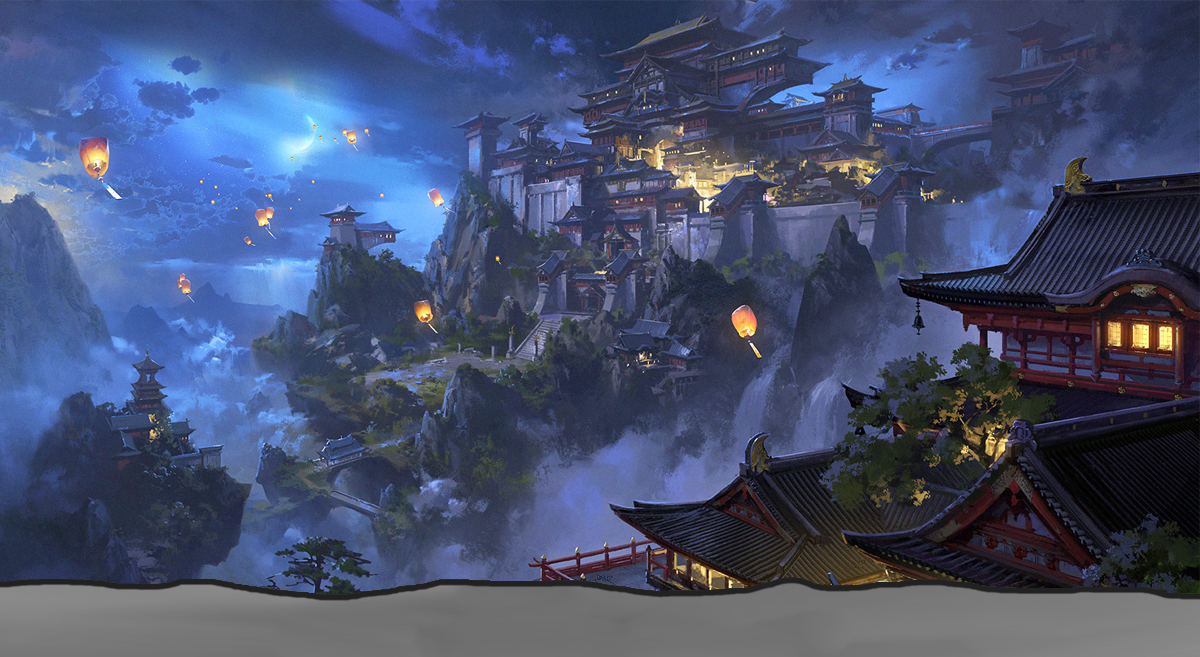
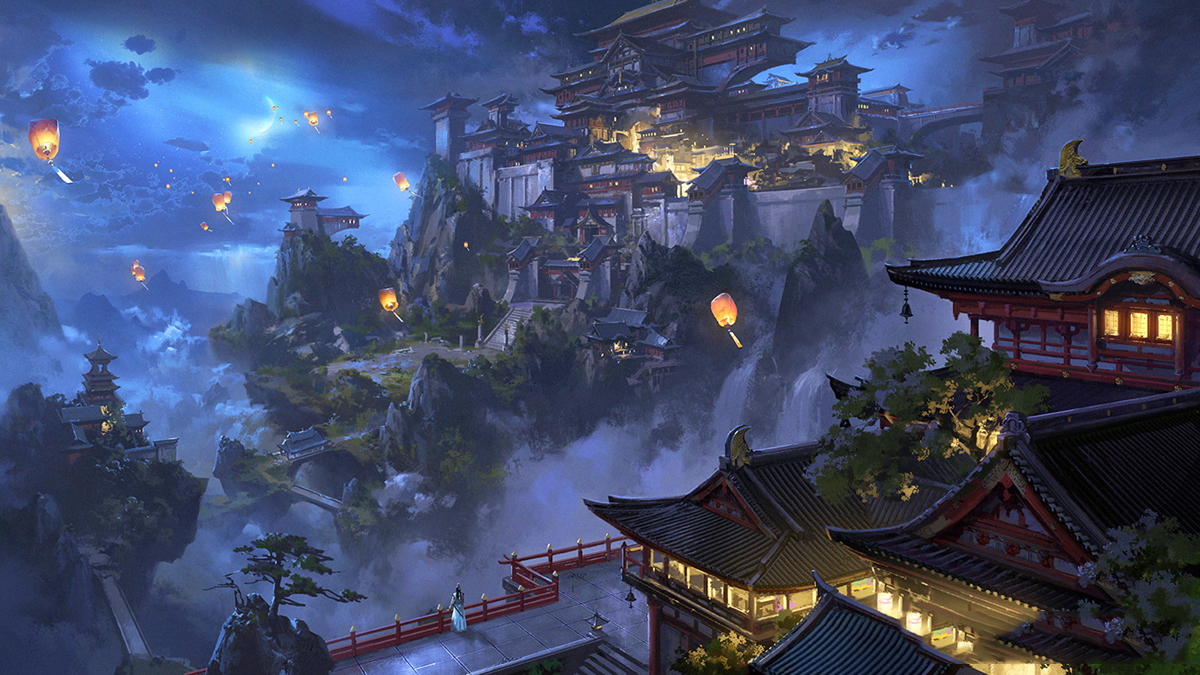
Fix #59: add all map

diff --git a/src/js/vuemove.js b/src/js/vuemove.js
@@ -156,7 +156,7 @@ document.onkeydown = function (event) {
 					if (pl.IsMana) {
 						flash(pl, 'skillQ')
 						CDSkill(pl, 4, pl.needCD)
-						t.UseConsumables(pl, "ATK", pl.LV, true, 10)
+						t.UseConsumables(pl, "ATK", pl.LV * 2, true, 10)
 						GetAudio('pl', 'skill_q', 2)
 						// setTimeout(function () { GetAudio('pl', 'skill_f2') }, 600)
 					}
@@ -671,16 +671,16 @@ function CreatePortal(PortalToMapID) {
 			$("#map").prepend("<div class='Portal Portal-L to-map-3'> </div>");
 			break;
 		case 5:
-			$("#map").prepend("<div class='Portal Portal-L to-map-2'> </div>");
+			$("#map").prepend("<div class='Portal Portal-M to-map-2'> </div>");
 			$("#map").prepend("<div class='Portal Portal-R to-map-6'> </div>");
 			break;
 		case 6:
-			$("#map").prepend("<div class='Portal Portal-L to-map-5'> </div>");
-			$("#map").prepend("<div class='Portal Portal-R to-map-0'> </div>");
+			$("#map").prepend("<div class='Portal Portal-bL to-map-5'> </div>");
+			$("#map").prepend("<div class='Portal Portal-bR to-map-0'> </div>");
 			break;
 		case 7:
-			$("#map").prepend("<div class='Portal Portal-L to-map-0'> </div>");
-			$("#map").prepend("<div class='Portal Portal-R to-map-8'> </div>");
+			$("#map").prepend("<div class='Portal Portal-wudangl to-map-0'> </div>");
+			$("#map").prepend("<div class='Portal Portal-bR to-map-8'> </div>");
 			$("#map").prepend("<div class='Portal Portal-M to-map-10'> </div>");
 			break;
 		case 8:
@@ -688,19 +688,19 @@ function CreatePortal(PortalToMapID) {
 			$("#map").prepend("<div class='Portal Portal-R to-map-9'> </div>");
 			break;
 		case 9:
-			$("#map").prepend("<div class='Portal Portal-L to-map-8'> </div>");
+			$("#map").prepend("<div class='Portal Portal-wudangl to-map-8'> </div>");
 			break;
 		case 10:
 			$("#map").prepend("<div class='Portal Portal-L to-map-0'> </div>");
 			$("#map").prepend("<div class='Portal Portal-R to-map-7'> </div>");
 			break;
 		case 11:
-			$("#map").prepend("<div class='Portal Portal-L to-map-12'> </div>");
-			$("#map").prepend("<div class='Portal Portal-R to-map-0'> </div>");
+			$("#map").prepend("<div class='Portal Portal-bL to-map-12'> </div>");
+			$("#map").prepend("<div class='Portal Portal-bR to-map-0'> </div>");
 			break;
 		case 12:
-			$("#map").prepend("<div class='Portal Portal-L to-map-13'> </div>");
-			$("#map").prepend("<div class='Portal Portal-R to-map-11'> </div>");
+			$("#map").prepend("<div class='Portal Portal-bL to-map-13'> </div>");
+			$("#map").prepend("<div class='Portal Portal-bR to-map-11'> </div>");
 			break;
 		case 13:
 			$("#map").prepend("<div class='Portal Portal-R to-map-12'> </div>");
@@ -713,7 +713,7 @@ function CreatePortal(PortalToMapID) {
 			$("#map").prepend("<div class='Portal Portal-L to-map-14'> </div>");
 			break;
 		case 16:
-			$("#map").prepend("<div class='Portal Portal-M to-map-0'> </div>");
+			$("#map").prepend("<div class='Portal Portal-bR to-map-0'> </div>");
 			break;
 		case 17:
 			$("#map").prepend("<div class='Portal Portal-L to-map-18'> </div>");

diff --git a/src/assets/scss/map.scss b/src/assets/scss/map.scss
@@ -25,27 +25,34 @@
     background: url(../images/map/map-4-murenxiang.png) no-repeat black;
 }
 
-.map-5,
-.map-6 {
-    background: url(../images/map/map-11.png) no-repeat black;
+.map-5 {
+    background: url(../images/map/map-5-songshan.png) no-repeat black;
 }
 
-.map-7,
+.map-6 {
+    background: url(../images/map/map-6-songshan.png) no-repeat black;
+}
+
+.map-7 {
+    background: url(../images/map/map-7-wudang.png) no-repeat black;
+}
+
 .map-8 {
-    background: url(../images/map/map-11.png) no-repeat black;
+    background: url(../images/map/map-8-wudang.png) no-repeat black;
 }
 
 .map-9 {
-    background: url(../images/map/map-11.png) no-repeat black;
+    background: url(../images/map/map-9-wudangdaochang.png) no-repeat black;
 }
 
 .map-10 {
-    background: url(../images/map/map-6.png) no-repeat black;
+    background: url(../images/map/map-1.png) no-repeat black;
 }
 
 .map-11 {
     background: url(../images/map/map-11-shunanzhuhai.png) no-repeat black;
 }
+
 .map-12 {
     background: url(../images/map/map-12-shunanzhuhai.png) no-repeat black;
 }
@@ -56,18 +63,21 @@
 
 .map-14,
 .map-15 {
-    background: url(../images/map/map-9.png) no-repeat black;
+    background: url(../images/map/map-1.png) no-repeat black;
 }
 
 .map-16 {
     background: url(../images/map/map-16-emei.png) no-repeat black;
 }
 
-.map-17,
+.map-17 {
+    background: url(../images/map/map-17-dashamo.png) no-repeat black;
+}
+
 .map-18 {
-    background: url(../images/map/map-11.png) no-repeat black;
+    background: url(../images/map/map-18-dashamo.png) no-repeat black;
 }
 
 .map-19 {
-    background: url(../images/map/map-12.png) no-repeat black;
+    background: url(../images/map/map-19-mojiao.png) no-repeat black;
 }

diff --git a/src/assets/scss/portal.scss b/src/assets/scss/portal.scss
@@ -36,6 +36,18 @@
     z-index: 500;
 }
 
+.Portal-bL {
+    top: 580px;
+    left: 0px;
+    z-index: 530;
+}
+
+.Portal-bR {
+    top: 580px;
+    right: 0px;
+    z-index: 530;
+}
+
 .Portal-M {
     top: 450px;
     left: 550px;
@@ -46,6 +58,12 @@
     top: 555px;
     left: 620px;
     z-index: 505;
+}
+
+.Portal-wudangl {
+    top: 570px;
+    left: 60px;
+    z-index: 520;
 }
 
 .Portal-songshan {

diff --git a/src/components/window/Skill.vue b/src/components/window/Skill.vue
@@ -143,7 +143,7 @@
               <div class="Skill-Value">
                 <p>
                   提升攻击：
-                  <span>{{pl.LV}}</span>点
+                  <span>{{pl.LV*2}}</span>点
                 </p>
                 <p>
                   消耗：

diff --git a/README.md b/README.md
@@ -2,7 +2,7 @@
 ```
 By Han$on(cqupt)
 ```
-## 开发进度（71/78）
+## 开发进度（72/78）
 
 ### 系统配置
 + `**主体框架架构**`
@@ -111,4 +111,4 @@ By Han$on(cqupt)
 + !敌人!
 + `NPC`
 + `音效`
-+ !地图!
++ `地图`
